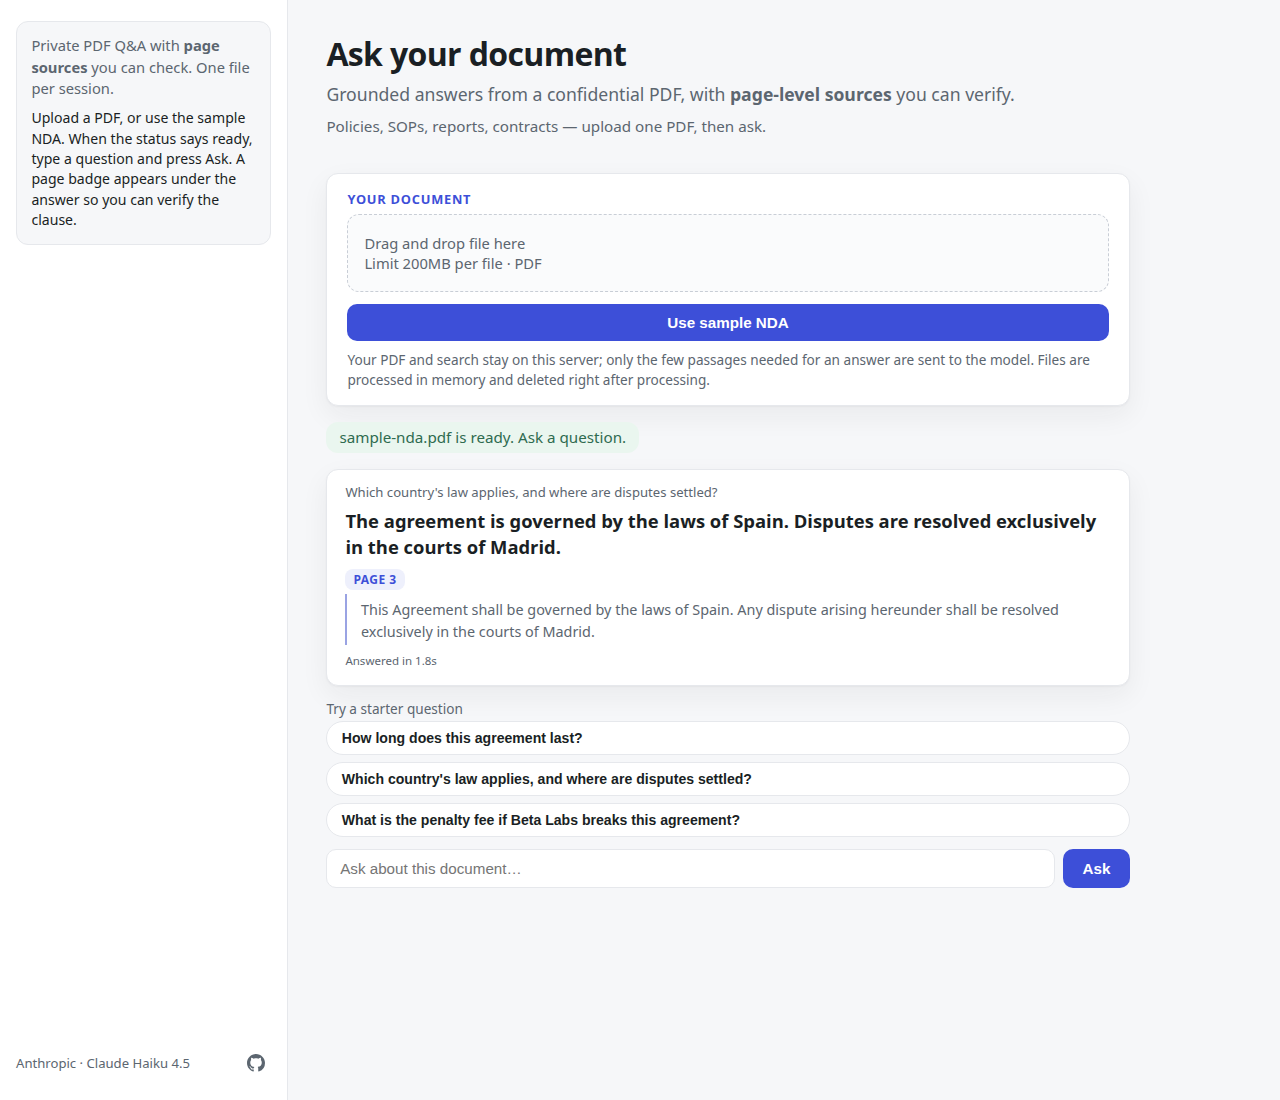
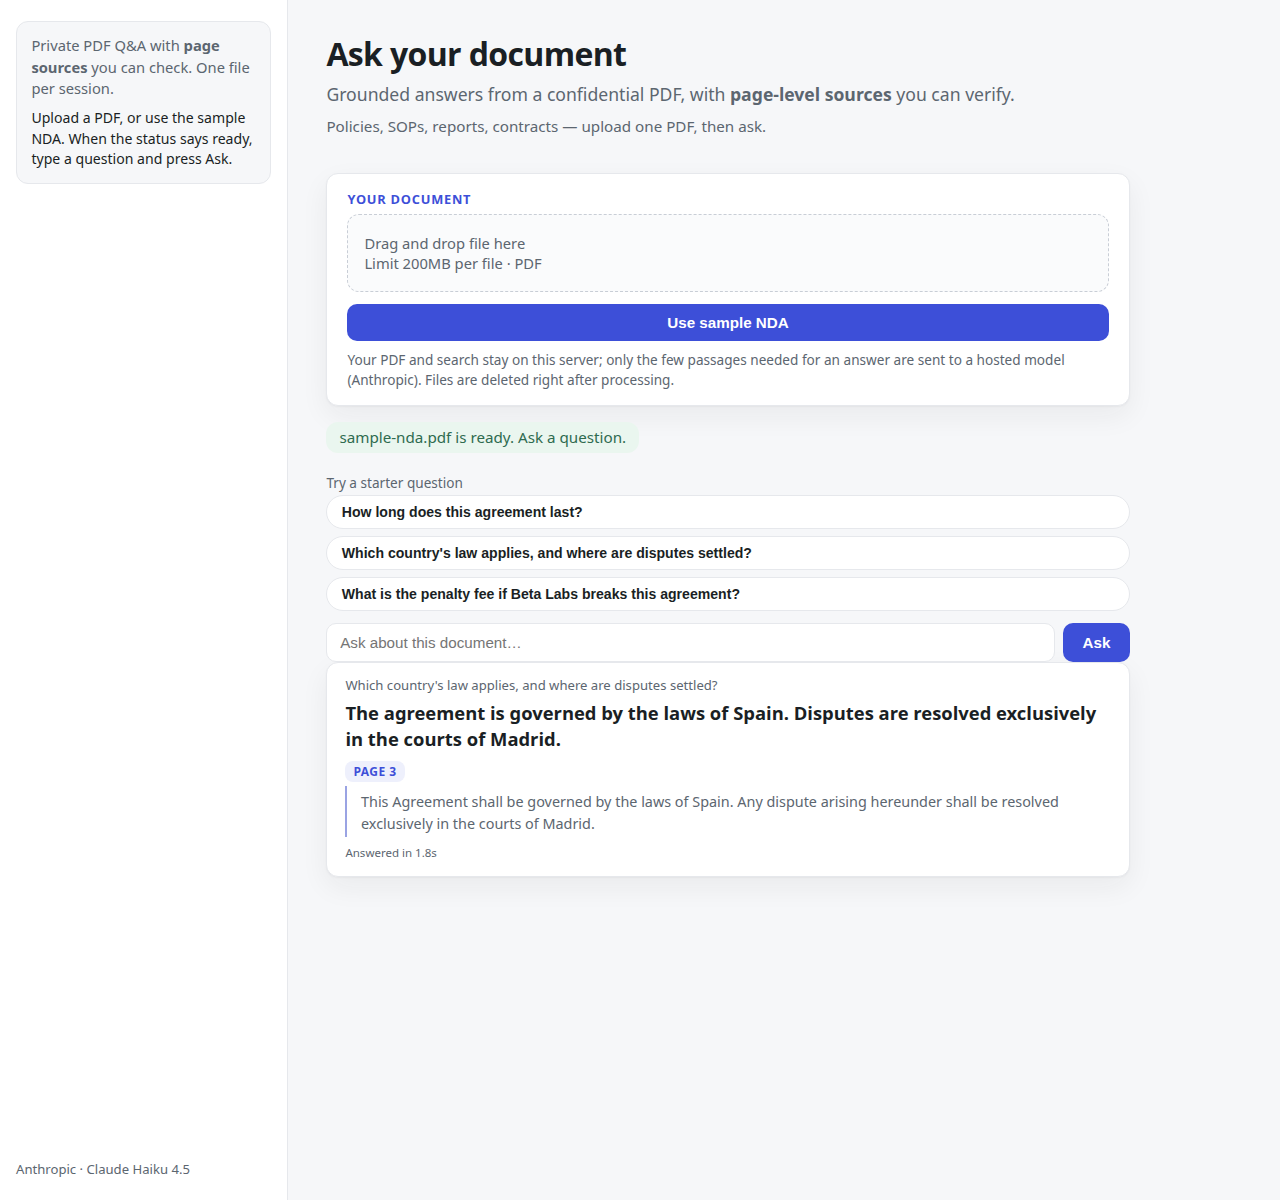
Put the newest answer first and tighten the privacy line.
Anthropic names the hosted model; Ollama keeps the stronger
on-server claim. Ask sits above newest-first cards so the last
reply stays in view without iframe scrolling. Mockups follow
the new copy.

diff --git a/src/app.py b/src/app.py
@@ -6,7 +6,6 @@ import time
 from pathlib import Path
 
 import streamlit as st
-import streamlit.components.v1 as components
 import yaml
 from dotenv import load_dotenv
 from langchain_community.vectorstores import FAISS
@@ -224,35 +223,6 @@ def get_embeddings(model_name: str) -> HuggingFaceEmbeddings:
     return HuggingFaceEmbeddings(model_name=model_name)
 
 
-def _request_chat_scroll_to_bottom() -> None:
-    """After a new assistant turn, scroll main pane to the latest message."""
-    st.session_state._scroll_chat_to_bottom = True
-
-
-def _scroll_chat_to_bottom_if_requested() -> None:
-    if not st.session_state.pop("_scroll_chat_to_bottom", False):
-        return
-    components.html(
-        """
-        <script>
-        (function () {
-          const doc = window.parent.document;
-          const anchor = doc.getElementById("chat-scroll-anchor");
-          if (anchor) {
-            anchor.scrollIntoView({ behavior: "instant", block: "end" });
-            return;
-          }
-          const main = doc.querySelector("section.main");
-          if (main) {
-            main.scrollTop = main.scrollHeight;
-          }
-        })();
-        </script>
-        """,
-        height=0,
-    )
-
-
 @st.cache_resource(show_spinner=False)
 def _get_cross_encoder(model_name: str):
     """Cache cross-encoder reranker model."""
@@ -295,8 +265,6 @@ def _append_chat_message(
     st.session_state.messages.append(message)
     if len(st.session_state.messages) > MAX_CHAT_MESSAGES:
         st.session_state.messages = st.session_state.messages[-MAX_CHAT_MESSAGES:]
-    if role == "assistant":
-        _request_chat_scroll_to_bottom()
 
 
 def _ensure_bm25_index() -> tuple[object | None, str | None]:
@@ -813,47 +781,6 @@ if resolved_upload is not None:
             if tmp_path and tmp_path.exists():
                 tmp_path.unlink(missing_ok=True)
 
-# Answer cards (newest sources stay open)
-turns = _paired_turns(st.session_state.messages)
-latest_turn = len(turns) - 1
-for turn_idx, (user_msg, assistant_msg) in enumerate(turns):
-    question = (user_msg or {}).get("content") or assistant_msg.get("for_question") or ""
-    _render_answer_card(
-        question=question,
-        answer=assistant_msg.get("content") or "",
-        sources=assistant_msg.get("sources") or [],
-        refusal=assistant_msg.get("refusal"),
-        expanded=turn_idx == latest_turn,
-        timing=assistant_msg.get("timing"),
-        developer_mode=st.session_state.developer_mode,
-    )
-    if st.session_state.developer_mode and assistant_msg.get("sources"):
-        turn_label = f"turn {turn_idx + 1}"
-        _render_source_checklist(
-            assistant_msg["sources"],
-            target_section=assistant_msg.get("target_section"),
-            title=_dev_panel_title(
-                "Source checklist (eval)",
-                assistant_msg.get("for_question"),
-                fallback=turn_label,
-            ),
-        )
-        if assistant_msg.get("eval_context"):
-            _render_eval_context_panel(
-                assistant_msg["eval_context"],
-                target_section=assistant_msg.get("target_section"),
-                chunk_count=assistant_msg.get("eval_chunk_count"),
-                title=_dev_panel_title(
-                    "Exact context fed to LLM",
-                    assistant_msg.get("for_question"),
-                    fallback=turn_label,
-                ),
-                top_k=TOP_K,
-            )
-
-st.markdown('<div id="chat-scroll-anchor"></div>', unsafe_allow_html=True)
-_scroll_chat_to_bottom_if_requested()
-
 chat_ready = _document_is_indexed()
 if "pending_question" in st.session_state:
     st.session_state.ask_box = st.session_state.pop("pending_question")
@@ -1192,6 +1119,43 @@ elif query is not None and not chat_ready:
     paint_status(status_slot, "empty", _chat_blocked_user_message(uploaded_file))
 elif query is not None:
     paint_status(status_slot, "error", "Please enter a non-empty question.")
+
+# Newest answer first so the last reply stays on screen without iframe scroll.
+turns = _paired_turns(st.session_state.messages)
+for turn_idx, (user_msg, assistant_msg) in enumerate(reversed(turns)):
+    question = (user_msg or {}).get("content") or assistant_msg.get("for_question") or ""
+    _render_answer_card(
+        question=question,
+        answer=assistant_msg.get("content") or "",
+        sources=assistant_msg.get("sources") or [],
+        refusal=assistant_msg.get("refusal"),
+        expanded=turn_idx == 0,
+        timing=assistant_msg.get("timing"),
+        developer_mode=st.session_state.developer_mode,
+    )
+    if st.session_state.developer_mode and assistant_msg.get("sources"):
+        turn_label = f"turn {len(turns) - turn_idx}"
+        _render_source_checklist(
+            assistant_msg["sources"],
+            target_section=assistant_msg.get("target_section"),
+            title=_dev_panel_title(
+                "Source checklist (eval)",
+                assistant_msg.get("for_question"),
+                fallback=turn_label,
+            ),
+        )
+        if assistant_msg.get("eval_context"):
+            _render_eval_context_panel(
+                assistant_msg["eval_context"],
+                target_section=assistant_msg.get("target_section"),
+                chunk_count=assistant_msg.get("eval_chunk_count"),
+                title=_dev_panel_title(
+                    "Exact context fed to LLM",
+                    assistant_msg.get("for_question"),
+                    fallback=turn_label,
+                ),
+                top_k=TOP_K,
+            )
 
 if st.session_state.developer_mode:
     _render_persistent_generation_error()

diff --git a/src/page_copy.py b/src/page_copy.py
@@ -39,12 +39,16 @@ _CLIENT_COPY = {
         "Still reading the document. Wait until the status says ready, then ask."
     ),
     "chat_blocked_empty": ("Upload a PDF or try the sample NDA, then wait until it is ready."),
-    "privacy_ollama": ("Runs on this server: your PDF, search and answers never leave it."),
+    "privacy_ollama": (
+        "Runs on this server: your PDF, search and answers never leave it. "
+        "Files are deleted right after processing."
+    ),
     "privacy_anthropic": (
         "Your PDF and search stay on this server; only the few passages "
-        "needed for an answer are sent to the model."
+        "needed for an answer are sent to a hosted model (Anthropic). "
+        "Files are deleted right after processing."
     ),
-    "privacy_memory": ("Files are processed in memory and deleted right after processing."),
+    "privacy_memory": "Files are deleted right after processing.",
 }
 
 # Two questions the sample NDA answers; one it does not.
@@ -67,12 +71,11 @@ STARTER_CHIPS = (
 def privacy_line_for_provider(provider: str) -> str:
     """One accurate privacy line for the active generator. Do not overclaim."""
     name = (provider or "").strip().lower()
-    memory = _CLIENT_COPY["privacy_memory"]
     if name == "ollama":
-        return f"{_CLIENT_COPY['privacy_ollama']} {memory}"
+        return _CLIENT_COPY["privacy_ollama"]
     if name == "anthropic":
-        return f"{_CLIENT_COPY['privacy_anthropic']} {memory}"
-    return memory
+        return _CLIENT_COPY["privacy_anthropic"]
+    return _CLIENT_COPY["privacy_memory"]
 
 
 def _inject_demo_styles() -> None:

diff --git a/src/session_upload.py b/src/session_upload.py
@@ -332,7 +332,6 @@ def _init_session_state(
         "last_generation_error": None,
         "last_response_timing": None,
         "_uploader_widget_had_file": False,
-        "_scroll_chat_to_bottom": False,
         "doc_status": "empty",
         "doc_status_detail": _CLIENT_COPY["doc_empty"],
         "ask_box": "",

diff --git a/docs/screenshots/README.md b/docs/screenshots/README.md
@@ -1,6 +1,6 @@
 # Storyboard stills
 
-Frames for the one-minute walkthrough. Answers are the storyboard wording so the stills stay usable offline.
+Design mockups for the one-minute walkthrough — theme-matched HTML, **not live Streamlit captures**. Answers use the storyboard wording so the stills stay usable offline.
 
 | File | What it shows |
 |------|----------------|
